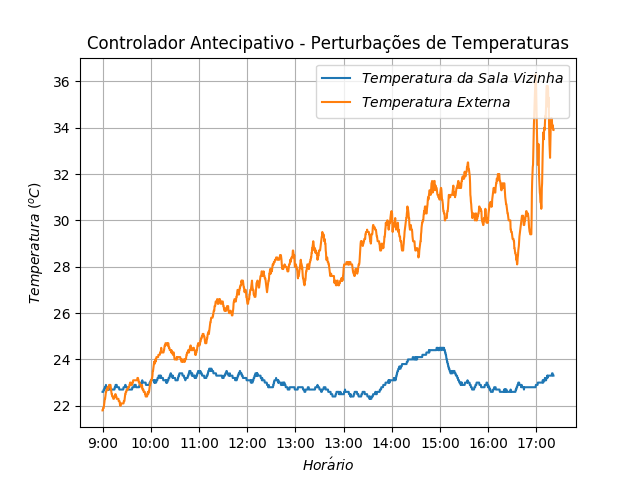
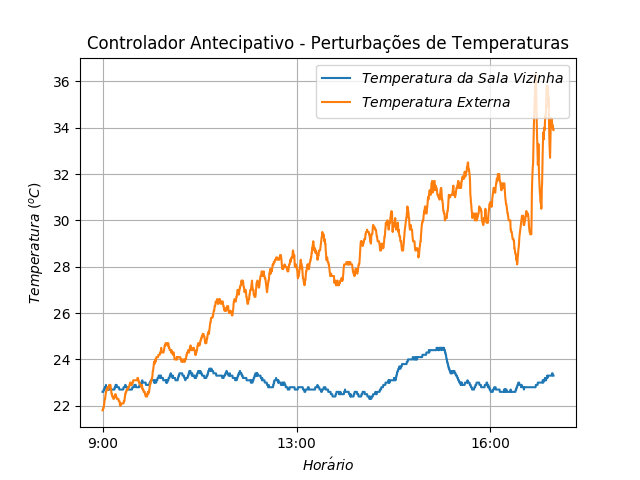
Graficos corretos antecipativo sem mudanca de referencia

Changed region(s): [[0.1875, 0.9062, 0.875, 0.9375]]

diff --git a/Integracao/plotlib.py b/Integracao/plotlib.py
@@ -17,7 +17,7 @@ def plotModel (database, name, controllerType):
     name = name.replace(":","-")
     
     TEMP = 23
-    TEMP_EMPTY_ROOM = 30
+    TEMP_EMPTY_ROOM = 23
     
     if(name == '2018-11-23_09-51-38_05'):
         energyTime = ['09-40','10-20','10-52','11-14','11-43','13-22','13-46','14-16','14-36']
@@ -204,7 +204,7 @@ def plotModel (database, name, controllerType):
         else:
             compressorSignal.append(line[5])
             
-        if(cont == 0 or cont % (170) == 0):
+        if(cont == 0 or cont % (225) == 0):
             dateTimeClean.append(str(int(hour))+":00")
             
             if(cont == 0):
@@ -220,7 +220,7 @@ def plotModel (database, name, controllerType):
 ##                
         cont = cont+1
     
-    N = 15
+    N = 15*4
     cumsum, movingAves = [0], []
     
     tempMeetingRoomBig = []
@@ -328,7 +328,7 @@ def plotModel (database, name, controllerType):
             
             PPD.append(ppd)
         
-        N = 50
+        N = 50*4*4
         pmvBig = []
         ppdBig = []
         for i in range(N-1):
@@ -349,7 +349,7 @@ def plotModel (database, name, controllerType):
                 PMVFilter.append(movingAve)
     
     
-        N = 50
+        N = 50*4*4
         cumsum, PPDFilter = [0], []
         
         for i, x in enumerate(ppdBig, 1):
@@ -372,7 +372,7 @@ def plotModel (database, name, controllerType):
     plt.title(title + " - Temperatura")
     plt.ylabel(r"$Temperatura\ (^o C)$")
     plt.xlabel(r"$Hor\'ario$")
-    plt.xticks(range(0, cont,  (170)), dateTimeClean)
+    plt.xticks(range(0, cont,  (225)), dateTimeClean)
     plt.grid(True)
     plt.savefig("Log/"+save+"_"+name+"_Temp.png")
     plt.show()
@@ -384,7 +384,7 @@ def plotModel (database, name, controllerType):
     plt.title(title + " - Perturbações de Temperaturas".decode("utf-8"))
     plt.ylabel(r"$Temperatura\ (^o C)$")
     plt.xlabel(r"$Hor\'ario$")
-    plt.xticks(range(0, cont,  (170)), dateTimeClean)
+    plt.xticks(range(0, cont,  (225)), dateTimeClean)
     plt.grid(True)
     plt.savefig("Log/"+save+"_"+name+"_TempExt.png")
     plt.show()
@@ -396,7 +396,7 @@ def plotModel (database, name, controllerType):
         plt.title(title + " - PMV")
         plt.ylabel(r"$PMV$")
         plt.xlabel(r"$Hor\'ario$")
-        plt.xticks(range(0, cont,  (170)), dateTimeClean)
+        plt.xticks(range(0, cont,  (225)), dateTimeClean)
         plt.grid(True)
         plt.savefig("Log/"+save+"_"+name+"_PMV.png")
         plt.show()
@@ -430,7 +430,7 @@ def plotModel (database, name, controllerType):
         plt.title(title + " - PPD")
         plt.ylabel(r"$PPD$")
         plt.xlabel(r"$Hor\'ario$")
-        plt.xticks(range(0, cont,  (170)), dateTimeClean)
+        plt.xticks(range(0, cont,  (225)), dateTimeClean)
         plt.grid(True)
         plt.savefig("Log/"+save+"_"+name+"_PPD.png")
         plt.show()
@@ -447,7 +447,7 @@ def plotModel (database, name, controllerType):
             plt.legend((r"$Sinal\ de\ Controle$", r"$Estado\ do\ Sistema$"), loc='lower left')
         plt.ylabel(r"$Sinal$")
         plt.xlabel(r"$Hor\'ario$")
-        plt.xticks(range(0, cont,  (170)), dateTimeClean)
+        plt.xticks(range(0, cont,  (225)), dateTimeClean)
         plt.grid(True)
         plt.savefig("Log/"+save+"_"+name+"_Signal.png")
         plt.show()
@@ -458,7 +458,7 @@ def plotModel (database, name, controllerType):
             plt.title(title + " - Consumo")
             plt.ylabel(r"$Consumo (KWh)$")
             plt.xlabel(r"$Hor\'ario$")
-            plt.xticks(range(0, cont,  (170)), dateTimeClean)
+            plt.xticks(range(0, cont,  (225)), dateTimeClean)
             plt.grid(True)
             plt.savefig("Log/"+save+"_"+name+"_Energy.png")
             plt.show()
@@ -468,7 +468,7 @@ def plotModel (database, name, controllerType):
         plt.title(title + " - Contagem de Pessoas")
         plt.ylabel(r"$N\'umero\ de\ Pessoas$")
         plt.xlabel(r"$Hor\'ario$")
-        plt.xticks(range(0, cont,  (170)), dateTimeClean)
+        plt.xticks(range(0, cont,  (225)), dateTimeClean)
         plt.grid(True)
         plt.savefig("Log/"+save+"_"+name+"_People.png")
         plt.show()
@@ -478,7 +478,7 @@ def plotModel (database, name, controllerType):
         plt.title(title + " - Sinal da Porta")
         plt.ylabel(r"$Sinal$")
         plt.xlabel(r"$Hor\'ario$")
-        plt.xticks(range(0, cont,  (170)), dateTimeClean)
+        plt.xticks(range(0, cont,  (225)), dateTimeClean)
         plt.grid(True)
         plt.savefig("Log/"+save+"_"+name+"_Door.png")
         plt.show()
@@ -489,7 +489,7 @@ def plotModel (database, name, controllerType):
         plt.title(title + " - Acionamento")
         plt.ylabel(r"$Sinal$")
         plt.xlabel(r"$Hor\'ario$")
-        plt.xticks(range(0, cont,  (170)), dateTimeClean)
+        plt.xticks(range(0, cont,  (225)), dateTimeClean)
         plt.grid(True)
         plt.savefig("Log/"+save+"_"+name+"_Signal.png")
         plt.show()

diff --git a/Integracao/controllerlib.py b/Integracao/controllerlib.py
@@ -36,7 +36,7 @@ def Controller(lastOutput, cont):
 
         print(TAG + "Controlador: Liga-Desliga")
 
-        PERIOD = 15 # 10 segundos
+        PERIOD = 27 # 10 segundos
 
         MIN_TEMP = 22.7
         MAX_TEMP = 23.3
@@ -44,7 +44,7 @@ def Controller(lastOutput, cont):
         print(TAG + "Contador: " + str(cont))
         print(TAG + "Temperatuda da Sala: "+ str(settings.tempMeetingRoom))
         
-        allTimeOn = False
+        allTimeOn = True
         if ((not allTimeOn) and cont >= 3 * 60 * 4):
             settings.isOn = 0
             output = 0

diff --git a/Integracao/plots.py b/Integracao/plots.py
@@ -54,8 +54,8 @@ controllerType = 3
 # name = '2018-11-17_17-12-29_01'
 # name = '2018-11-19_09-42-35'
 #name = '2018-11-24_09-55-53' 
-name = '2018-11-27_09-38-54' #8 HORAS OFICIAL
-#name = '2018-11-30_09-51-26' # 8 HORAS OFICIAL sem mudar ref
+#name = '2018-11-27_09-38-54' #8 HORAS OFICIAL
+name = '2018-11-30_09-51-26' # 8 HORAS OFICIAL sem mudar ref
 
 database = InicializeDatabase(name)
 plotModel(database, name, controllerType)

diff --git a/Integracao/settings.py b/Integracao/settings.py
@@ -26,4 +26,4 @@ def init():
     # 1 -> Liga-Desliga
     # 2 -> PI
     # 3 -> Antecipativo
-    controllerType = 3
+    controllerType = 1
